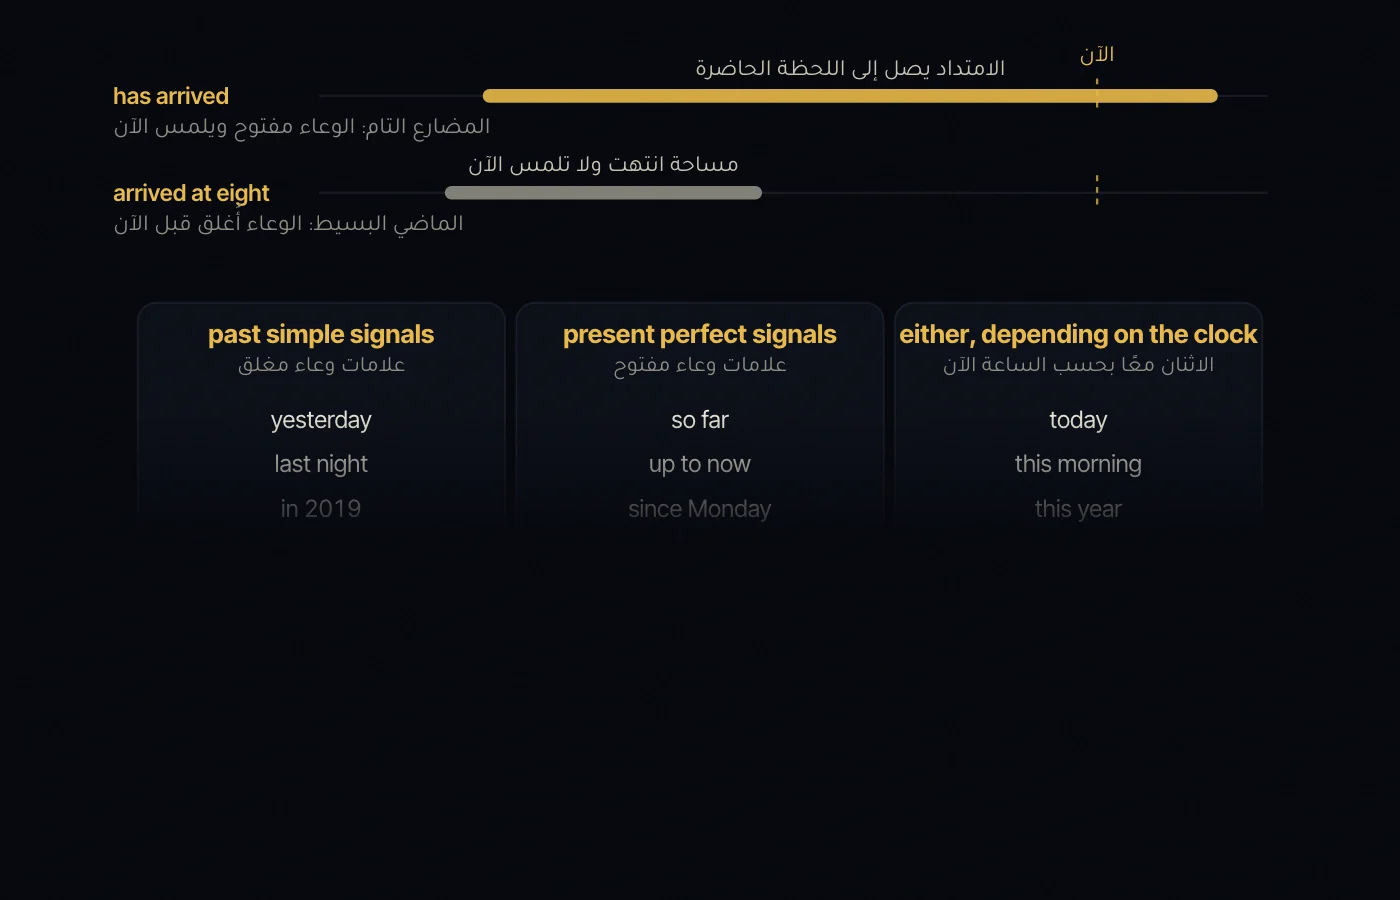
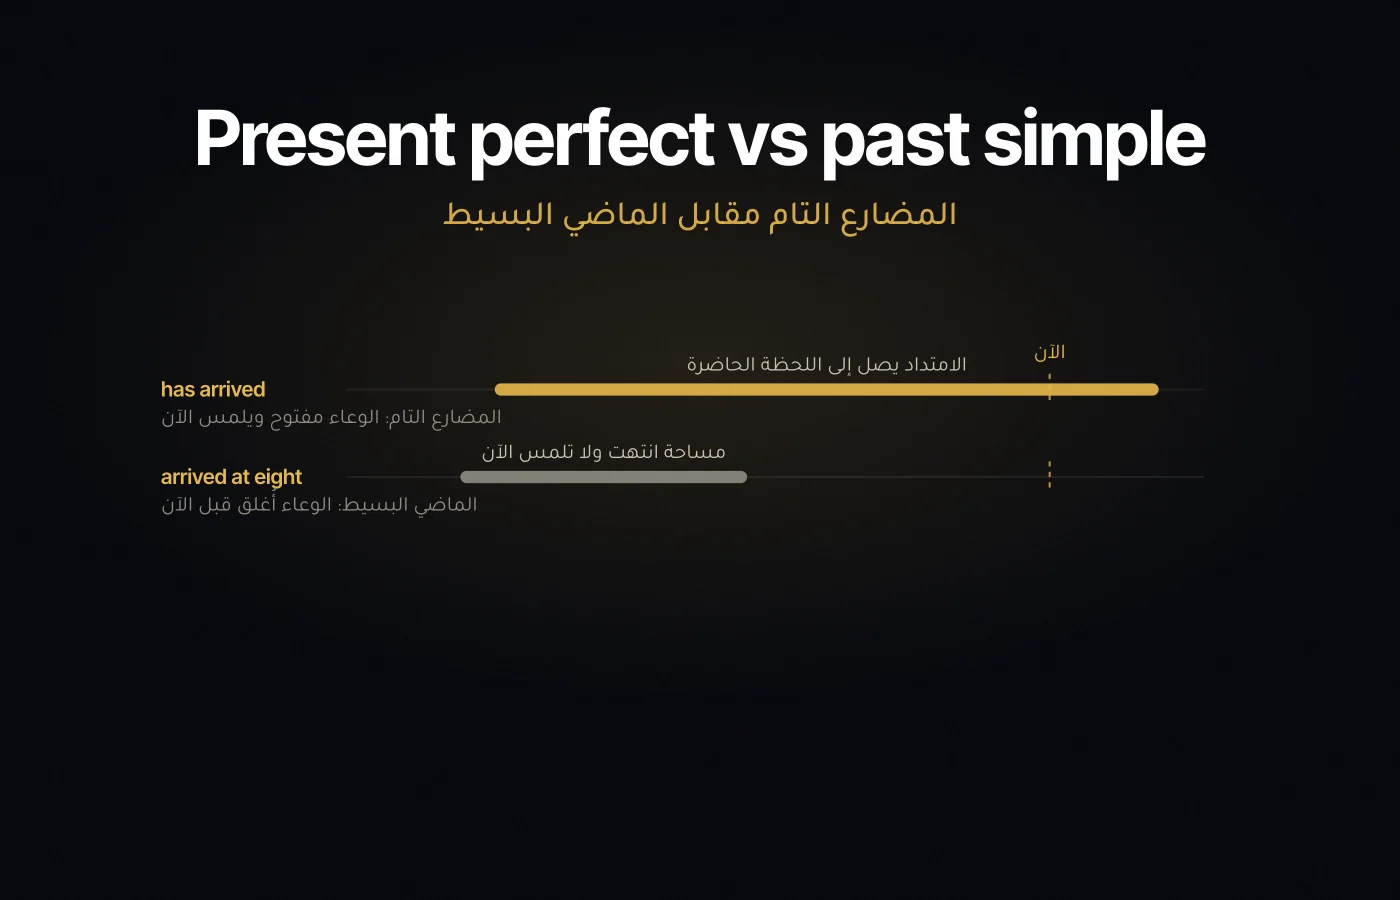
feat(tour): doors that survive both frames
The homepage band shows rooms as 3:4 portrait cards and the hub as wide
landscape cards; one image cropped two ways cut «sung» off the verbs door
and split the grammar diagram's labels. Each room now has door-tall.webp
(600×800) for the band beside door.webp (1400×900) for the hub.

scripts/tour/make-doors.cjs cuts the photographic doors around a focal
point and composes the other two from the rooms' own renderers: grammar
is the entry's title and Arabic name over its contrast diagram (the old
door stacked a second, text-dense board under the hub's copy), verbs is
the sing · sang · sung plate stacked. The hub title keeps «من الداخل» on
one line.

Claude-Session: https://claude.ai/code/session_0194ajfDqZ9UD1G8x69tq73p

diff --git a/src/pages/v5/V5TourBand.jsx b/src/pages/v5/V5TourBand.jsx
@@ -6,7 +6,7 @@ import { Reveal } from "../v1/motion";
  *
  * The «المنصة» chapter above describes the product with in-code mockups; this
  * band hands the visitor the real thing instead: five rooms of the actual
- * student platform, each shown by its own art (public/tour/<slug>/door.webp),
+ * student platform, each shown by its own portrait art (public/tour/<slug>/door-tall.webp),
  * no sign-up. Room titles and order come from the tour's own registry, so the
  * band can never list a room the tour doesn't have.
  *
@@ -35,7 +35,7 @@ export default function V5TourBand() {
             {ROOMS.map((room, i) => (
               <li key={room.slug}>
                 <a className="v5-tour-room" href={`/tour/${room.slug}`}>
-                  <span className="v5-tour-art" style={{ backgroundImage: `url(/tour/${room.slug}/door.webp)` }} aria-hidden />
+                  <span className="v5-tour-art" style={{ backgroundImage: `url(/tour/${room.slug}/door-tall.webp)` }} aria-hidden />
                   <span className="v5-tour-scrim" aria-hidden />
                   <span className="v5-tour-num v1-num">{String(i + 1).padStart(2, "0")}</span>
                   <span className="v5-tour-title">{room.title}</span>

diff --git a/src/tour/hub.css b/src/tour/hub.css
@@ -41,6 +41,7 @@
 }
 .tour-hub-title em {
   font-style: normal;
+  white-space: nowrap;
   background: linear-gradient(90deg, #7dd3fc, #38bdf8 55%, #a5b4fc);
   -webkit-background-clip: text;
           background-clip: text;
